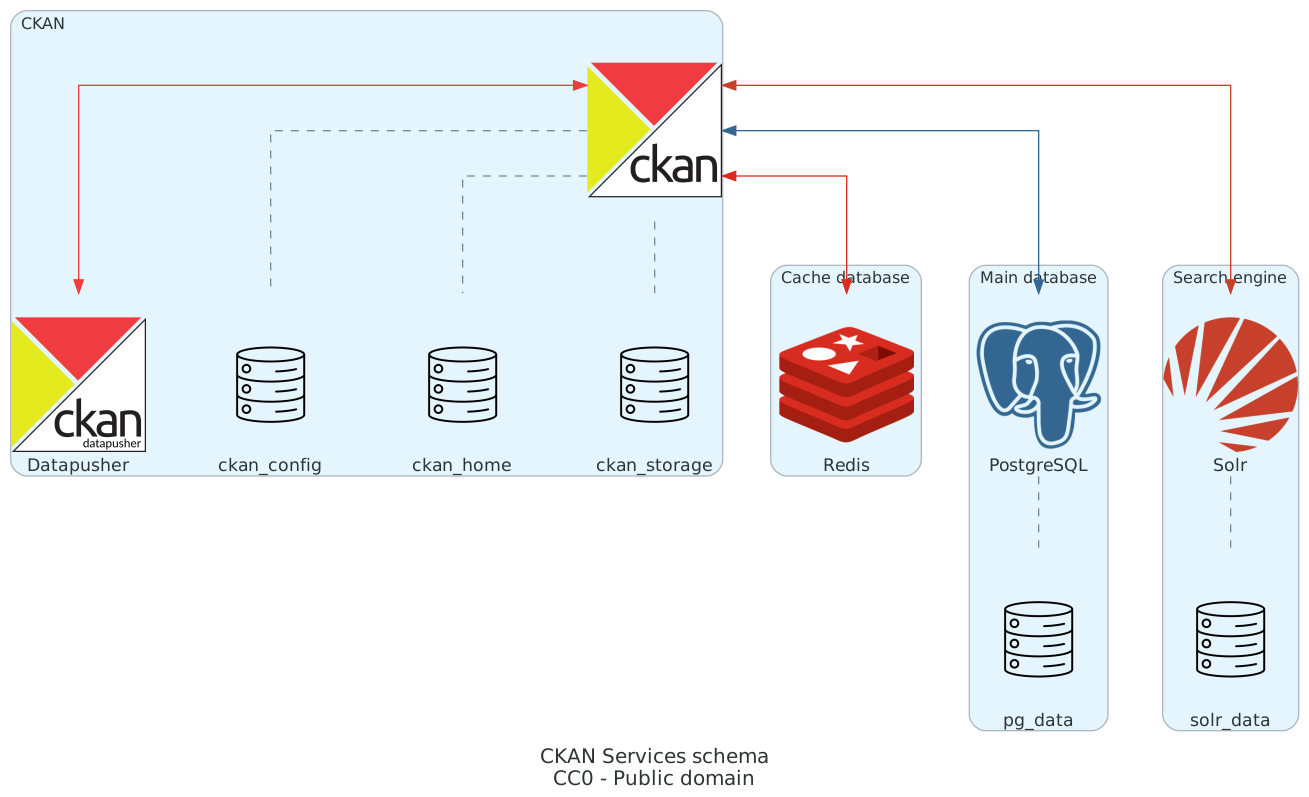
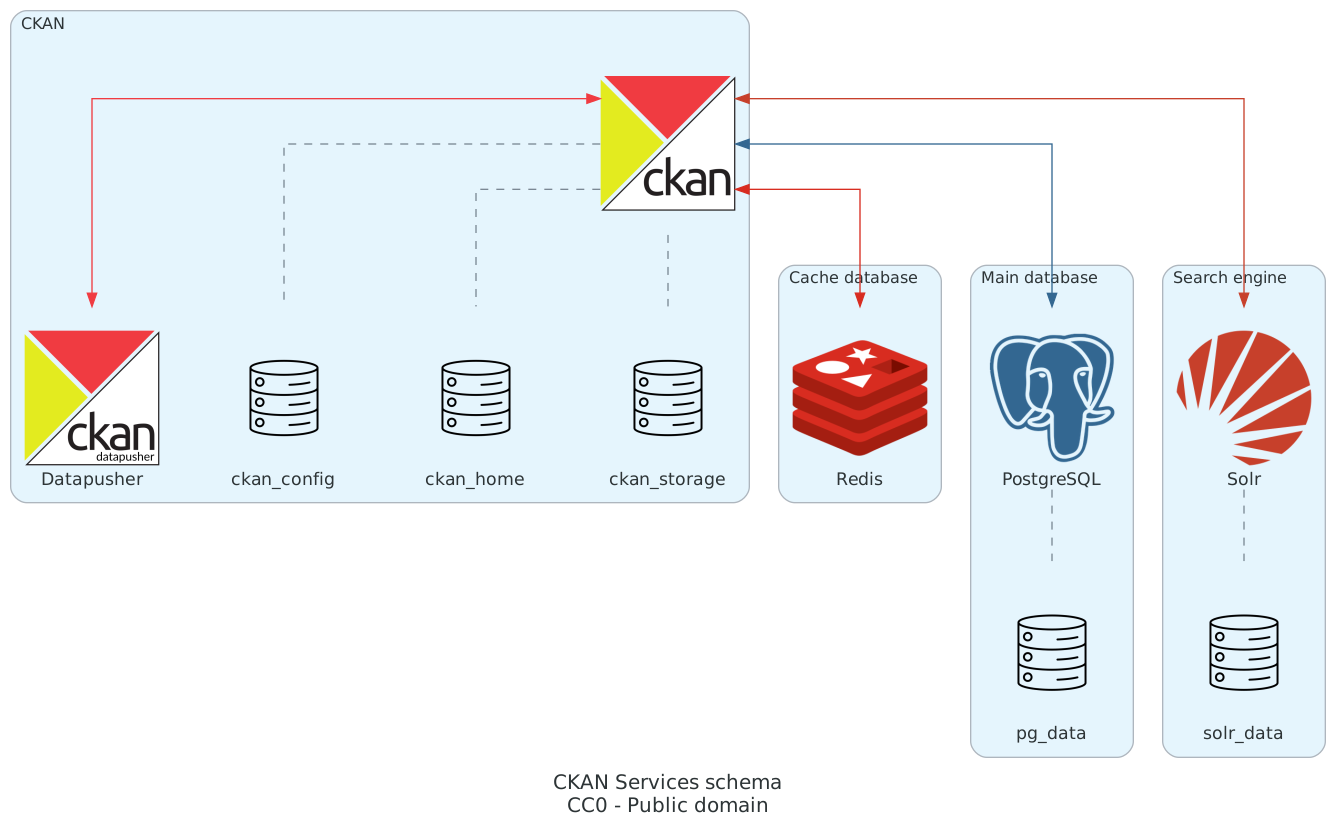
Add entities schema diagram

diff --git a/diagrams/entities.py b/diagrams/entities.py
@@ -1,0 +1,37 @@
+from diagrams import Diagram, Cluster, Edge
+from diagrams.custom import Custom
+
+diagram_attr = { "margin": "-2, -2" }
+
+with Diagram(
+  "CKAN Entities schema\nCC0 - Public domain",
+  graph_attr=diagram_attr,
+  filename="entities",
+  show=False,
+  direction="TB"
+):
+
+  # Thanks to https://boykoc.github.io/ckan/2019/10/21/ckan-283-database-diagram.html
+  activity = Custom("Activity", "icons/activity.png") # User activities in CKAN related to an object.
+  topic = Custom("Topic", "icons/topic.png") # Represents simple way to manage collections of packages by topic.
+  organization = Custom("Organization", "icons/organization.png") # Represents simple way to manage collections of packages by topic.
+  dataset = Custom("Dataset / Package", "icons/dataset.png") # Represents the dataset and related metadata.
+  tag = Custom("Tag", "icons/tag.png") # Represents the tags for packages which are used to group/classify datasets, associates tags to packages.
+  rating = Custom("Rating", "icons/rating.png") # User rating of a dataset (package).
+  resource = Custom("Resource", "icons/resource.png") # Represents the structure data files and technical documents related to a package (dataset).
+  user = Custom("User", "icons/user.png") # Represents a list of users in the system.
+  vocabulary = Custom("Vocabulary", "icons/vocabulary.png") # Tag vocabulary are a way of grouping related tags together into custom fields.
+
+  activity - user
+  rating - user
+
+  user - organization
+
+  dataset - organization
+  dataset - topic
+  dataset - user
+  dataset - tag
+  dataset - rating
+  dataset - resource
+
+  tag - vocabulary

diff --git a/diagrams/services.py b/diagrams/services.py
@@ -4,33 +4,32 @@ from diagrams.onprem.search import Solr
 from diagrams.onprem.inmemory import Redis
 from diagrams.custom import Custom
 
-graph_attr = {
-  "margin":"-2, -2"
-}
+diagram_attr = { "margin": "-2, -2" }
+cluster_attr = { "margin": "10, 10" }
 
 with Diagram(
   "CKAN Services schema\nCC0 - Public domain",
-  graph_attr=graph_attr,
+  graph_attr=diagram_attr,
   filename="services",
   show=False,
   direction="TB"
 ):
 
-    with Cluster("Cache database"):
+    with Cluster("Cache database", graph_attr=cluster_attr):
 
       cache_database = Redis("Redis")
 
-    with Cluster("Main database"):
+    with Cluster("Main database", graph_attr=cluster_attr):
 
       main_database = Postgresql("PostgreSQL")
       main_database_volume = Custom("pg_data", "icons/volume.png")
 
-    with Cluster("Search engine"):
+    with Cluster("Search engine", graph_attr=cluster_attr):
 
       search_engine = Solr("Solr")
       search_engine_volume = Custom("solr_data", "icons/volume.png")
 
-    with Cluster("CKAN"):
+    with Cluster("CKAN", graph_attr=cluster_attr):
 
       ckan_core = Custom("", "icons/ckan.png")
       ckan_datapusher = Custom("Datapusher", "icons/datapusher.png")

diff --git a/src/example.md b/src/example.md
@@ -1,0 +1,54 @@
+# Introduzione
+
+Whether you write your book's content in Jupyter Notebooks (`.ipynb`) or
+in regular markdown files (`.md`), you'll write in the same flavor of markdown
+called **MyST Markdown**.
+This is a simple file to help you get started and show off some syntax.
+
+## What is MyST?
+
+MyST stands for "Markedly Structured Text". It
+is a slight variation on a flavor of markdown called "CommonMark" markdown,
+with small syntax extensions to allow you to write **roles** and **directives**
+in the Sphinx ecosystem.
+
+For more about MyST, see [the MyST Markdown Overview](https://jupyterbook.org/content/myst.html).
+
+## Sample Roles and Directives
+
+Roles and directives are two of the most powerful tools in Jupyter Book. They
+are kind of like functions, but written in a markup language. They both
+serve a similar purpose, but **roles are written in one line**, whereas
+**directives span many lines**. They both accept different kinds of inputs,
+and what they do with those inputs depends on the specific role or directive
+that is being called.
+
+Here is a "note" directive:
+
+```{note}
+Here is a note
+```
+
+It will be rendered in a special box when you build your book.
+
+Here is an inline directive to refer to a document: {doc}`index`.
+
+## Citations
+
+You can also cite references that are stored in a `bibtex` file. For example,
+the following syntax: `` {cite}`holdgraf_evidence_2014` `` will render like
+this: {cite}`holdgraf_evidence_2014`.
+
+Moreover, you can insert a bibliography into your page with this syntax:
+The `{bibliography}` directive must be used for all the `{cite}` roles to
+render properly.
+For example, if the references for your book are stored in `references.bib`,
+then the bibliography is inserted with:
+
+```{bibliography}
+```
+
+## Learn more
+
+This is just a simple starter to get you started.
+You can learn a lot more at [jupyterbook.org](https://jupyterbook.org).

diff --git a/src/overview.md b/src/overview.md
@@ -2,27 +2,17 @@
 
 ...
 
-## Schema dei servizi
+## Servizi
 
 ...
 
 ![Schema dei servizi](../diagrams/services.png)
 
-## Schema dati
+## Entità
 
 ...
 
-### Entità
-
-...
-
-### Attributi
-
-...
-
-### Relazioni
-
-...
+![Schema delle entità](../diagrams/entities.png)
 
 ## Database
 
@@ -53,9 +43,5 @@
 ...
 
 ## Command Line Interface (CLI)
-
-...
-
-## Laboratorio
 
 ...

diff --git a/src/introduction.md b/src/introduction.md
@@ -41,7 +41,3 @@
 ### Alternative
 
 ...
-
-## Laboratorio
-
-...
